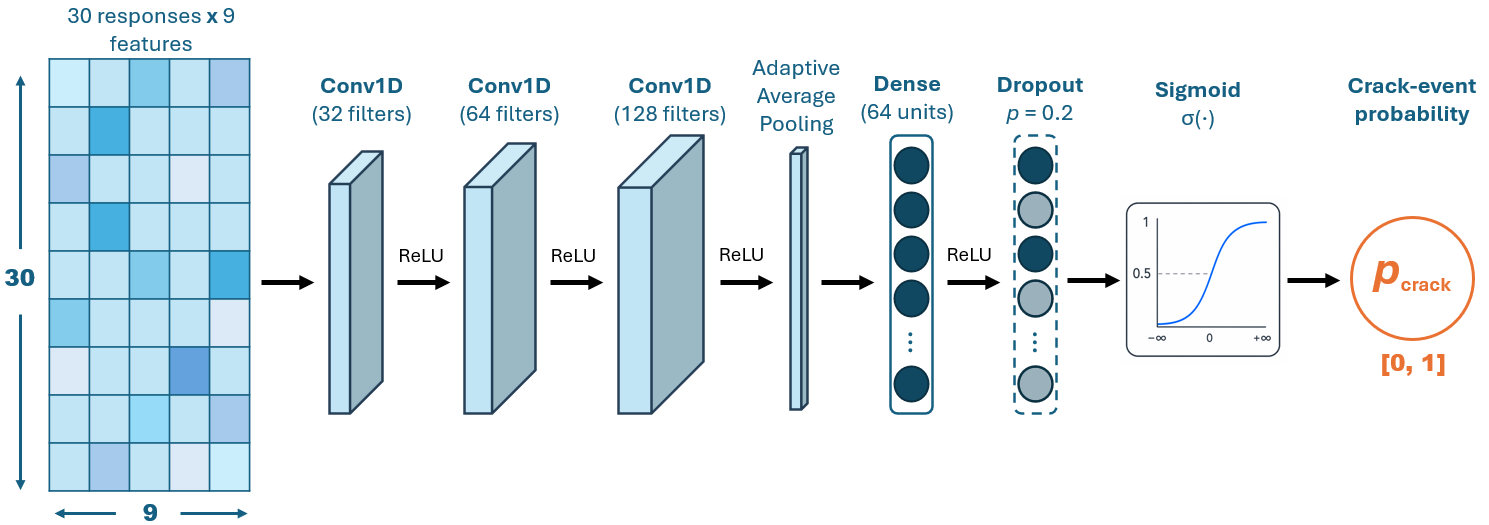
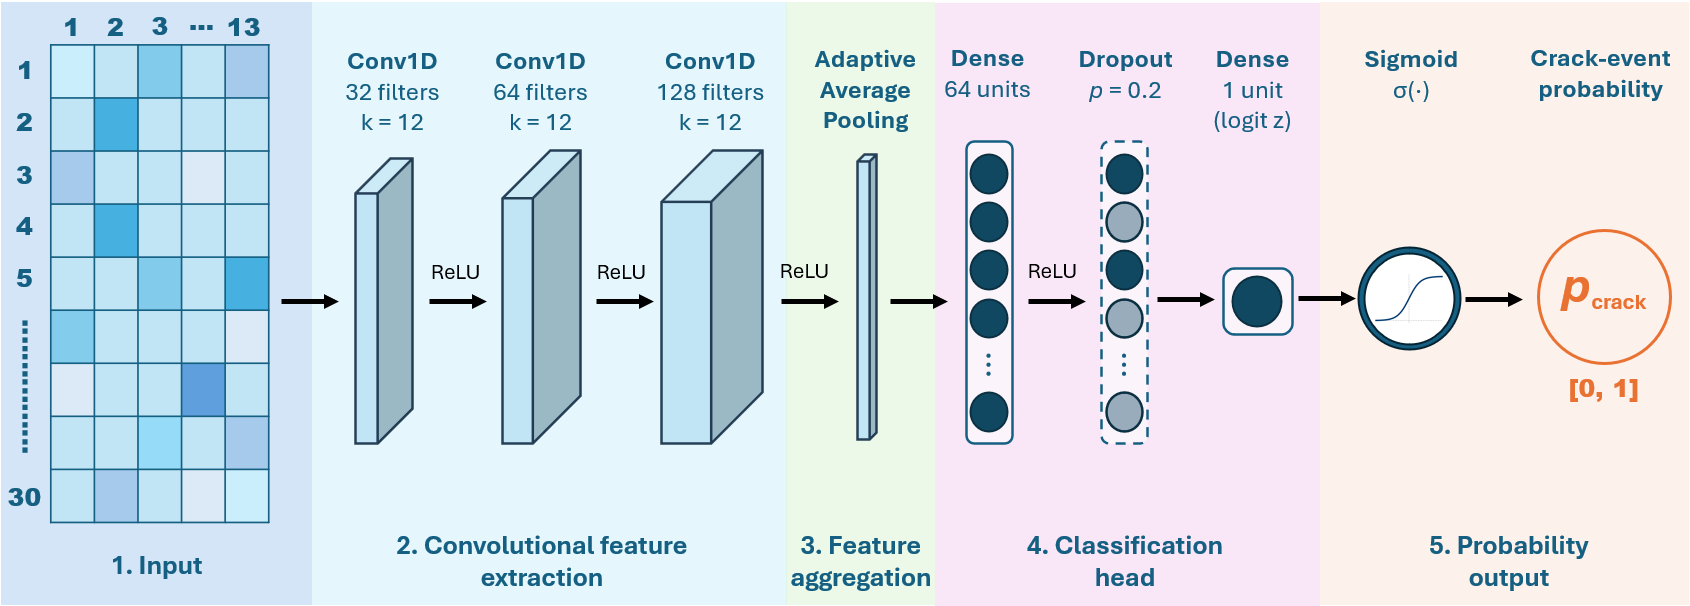
fix: Update abstract for clarity and specify glass-fiber-reinforced polymer in template.tex

diff --git a/MDPI_Article_Template_journal_update/template.tex b/MDPI_Article_Template_journal_update/template.tex
@@ -30,7 +30,7 @@ $^{3}$ \quad FISENS, Izmir Institute of Technology, Urla 35430, T\"urkiye}
 
 \corres{Correspondence: christophe.caucheteur@umons.ac.be}
 
-\abstract{Crack detection in composite structures remains a central challenge in structural health monitoring, particularly when sensing must rely on a small number of embedded multiplexed fiber Bragg gratings (FBGs). Here, we present a physics-guided convolutional neural network (CNN) framework for crack-associated event detection from multiplexed FBG interrogator signals acquired during three-point bending of glass-fiber-reinforced polymer beams. The dataset was reconstructed from raw interrogator recordings and synchronized force--displacement metadata while preserving the cracked and non-cracked loading stages present in the experiments. Each candidate response was encoded by 13 synchronized optical, loading, and mechanics-guided descriptors, including Euler--Bernoulli expected strain and residual terms, where the residual denotes the difference between the measured response and the elastic response predicted by beam theory. A compact one-dimensional CNN operating on 30-response sequences was evaluated on 64 experimental runs under strict leave-one-run-out validation. At the selected operating point, the model reached window-level precision of 0.900, recall of 0.910, F1 score of 0.905, and balanced accuracy of 0.942, while the corresponding run-level decision reached precision of 0.833, recall of 1.000, F1 score of 0.909, and balanced accuracy of 0.969. Bootstrap resampling over runs yielded a 95\% confidence interval of 0.787--0.978 for window-level F1 and 0.769--1.000 for run-level F1. These results show that a compact sequence CNN, enriched with mechanics-guided strain interpretation, can extract robust crack-event signatures from multiplexed FBG measurements while preserving a simple and reproducible modeling pipeline.}
+\abstract{Crack detection in composite structures remains a central challenge in structural health monitoring, particularly when sensing must rely on a small number of embedded multiplexed fiber Bragg gratings (FBGs). Here, we present a physics-guided convolutional neural network (CNN) framework for crack-associated event detection from multiplexed FBG interrogator signals acquired during three-point bending of glass-fiber-reinforced polymer (GFRP) beams. The dataset was reconstructed from raw interrogator recordings and synchronized force--displacement metadata while preserving the cracked and non-cracked loading stages present in the experiments. Each candidate response was encoded by 13 synchronized optical, loading, and mechanics-guided descriptors, including Euler--Bernoulli expected strain and residual terms, where the residual denotes the difference between the measured response and the elastic response predicted by beam theory. A compact one-dimensional CNN operating on 30-response sequences was evaluated on 64 experimental runs under strict leave-one-run-out validation. At the selected operating point, the model reached window-level precision of 0.900, recall of 0.910, F1 score of 0.905, and balanced accuracy of 0.942, while the corresponding run-level decision reached precision of 0.833, recall of 1.000, F1 score of 0.909, and balanced accuracy of 0.969. Bootstrap resampling over runs yielded a 95\% confidence interval of 0.787--0.978 for window-level F1 and 0.769--1.000 for run-level F1. These results show that a compact sequence CNN, enriched with mechanics-guided strain interpretation, can extract robust crack-event signatures from multiplexed FBG measurements while preserving a simple and reproducible modeling pipeline.}
 
 \keyword{fiber Bragg grating; structural health monitoring; crack-event detection; convolutional neural network; Euler--Bernoulli beam theory; multiplexed interrogator signals}
 
